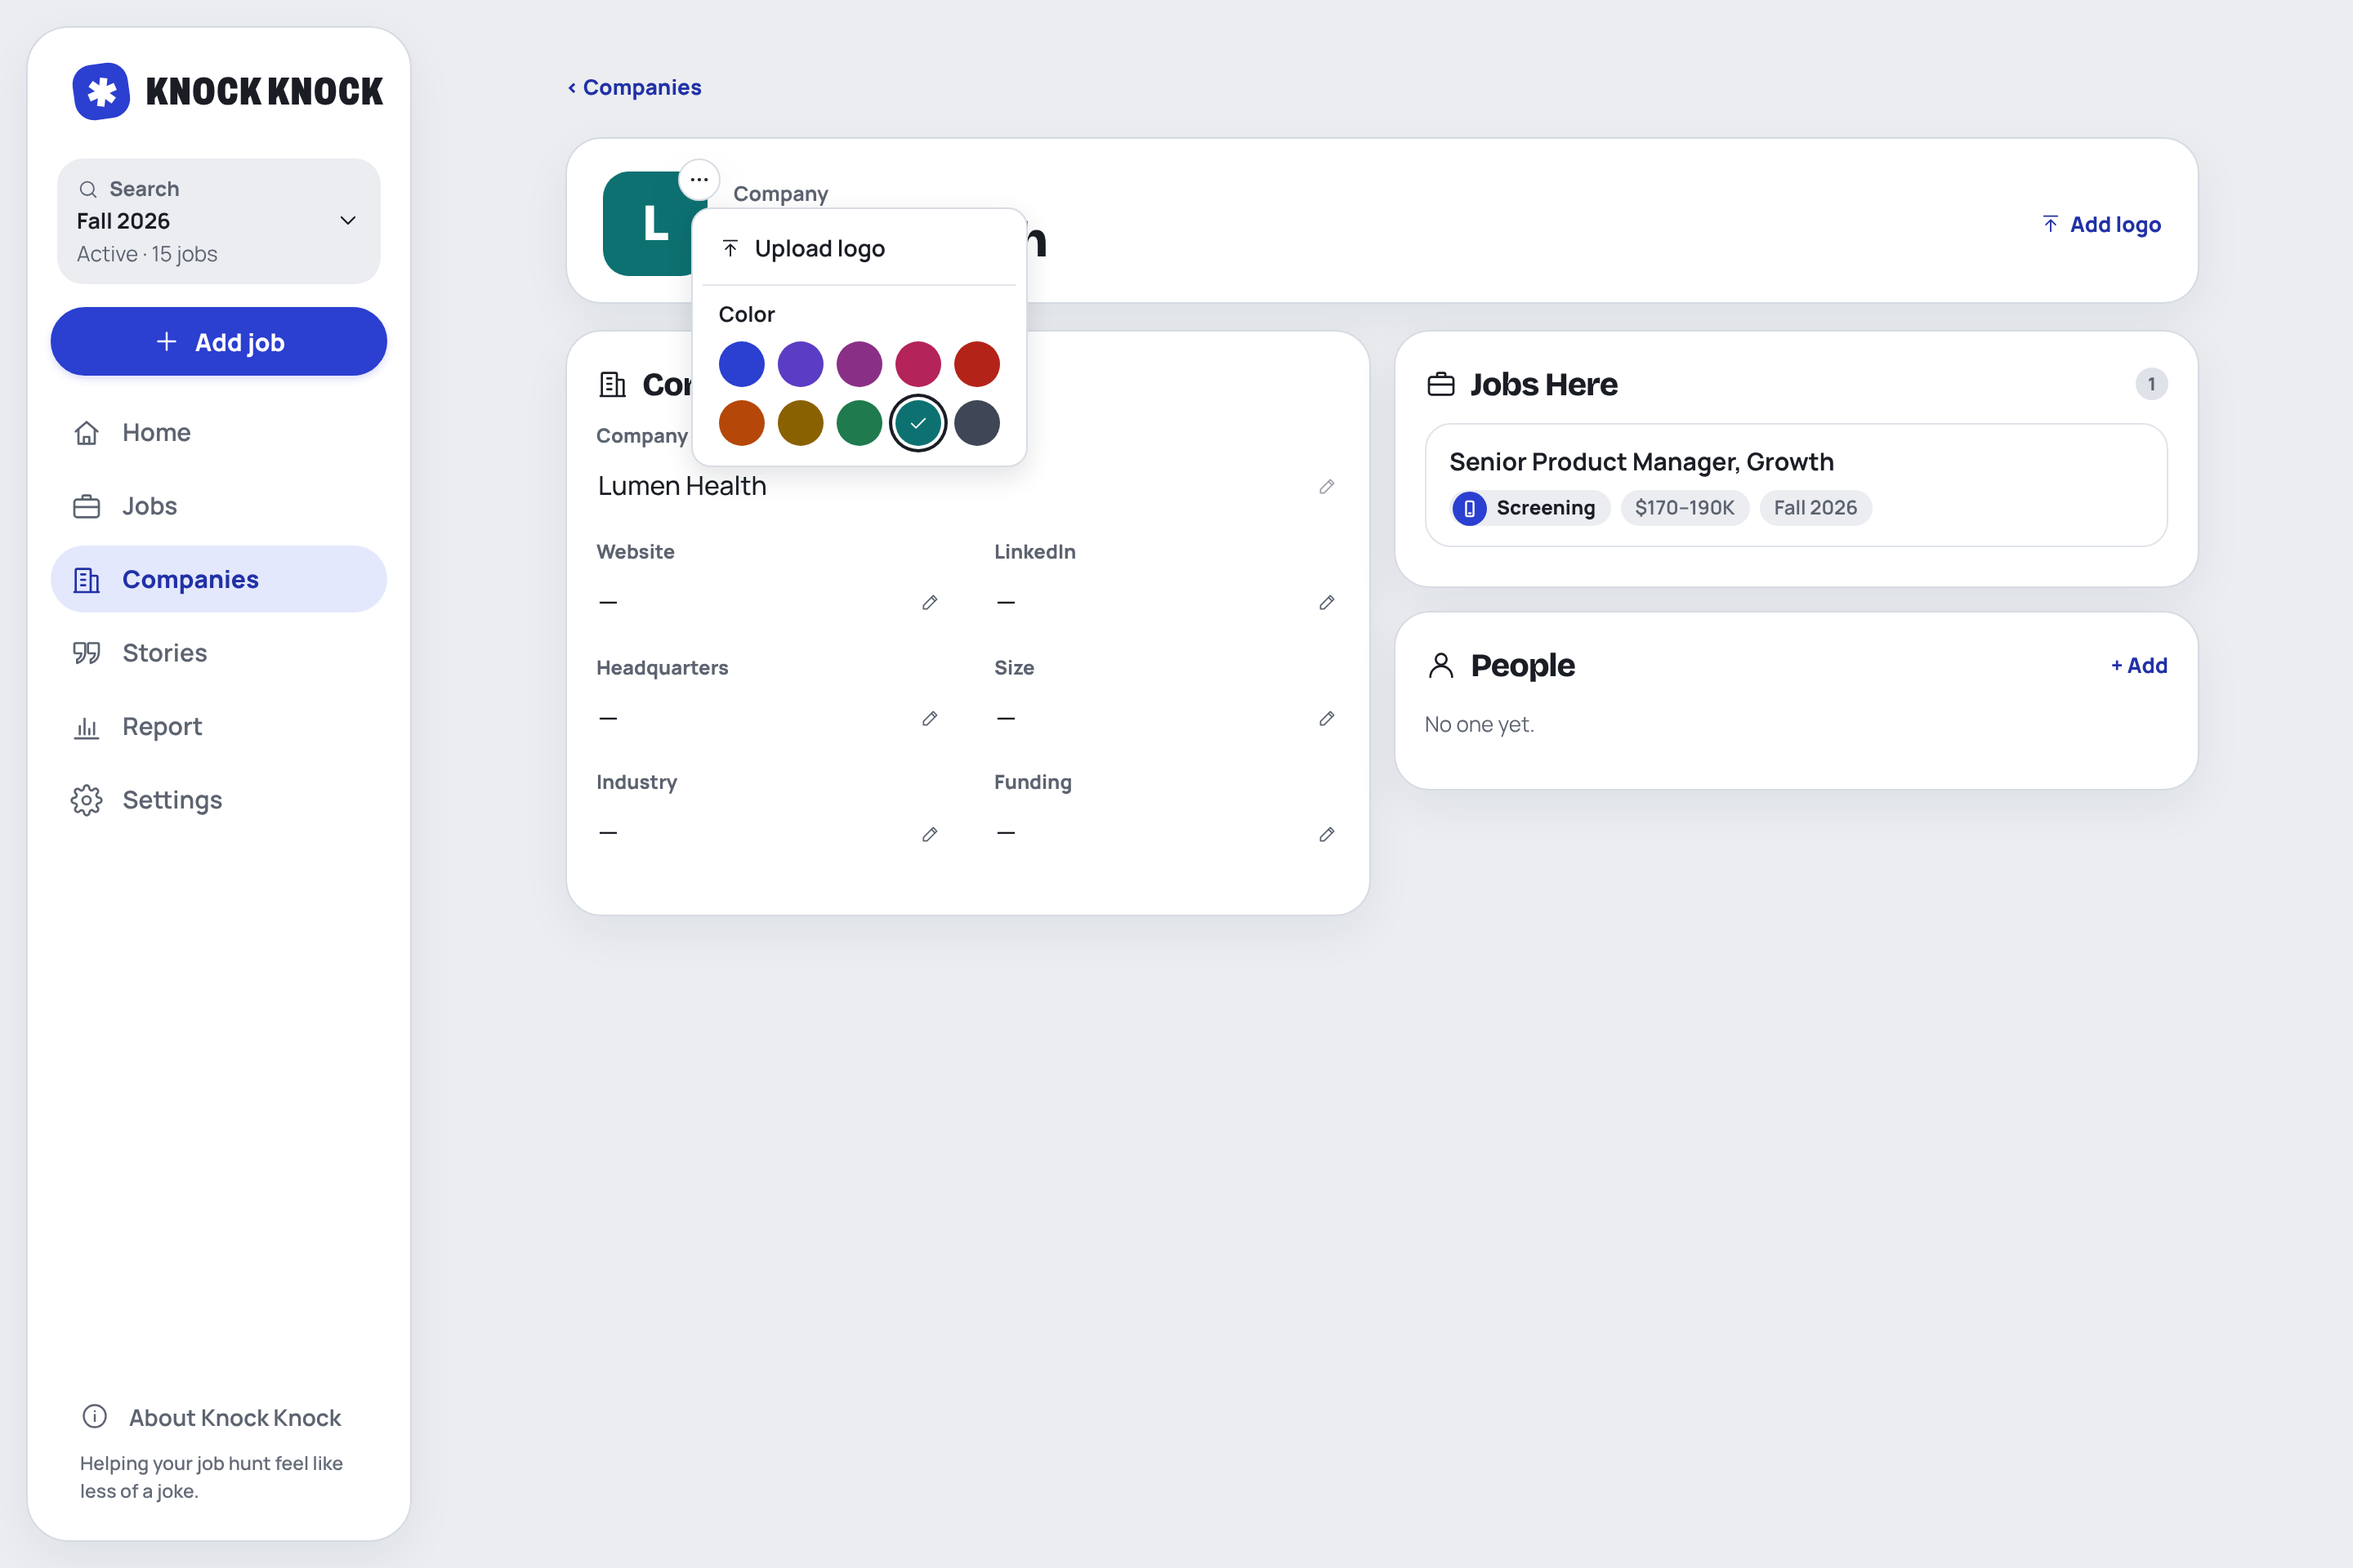
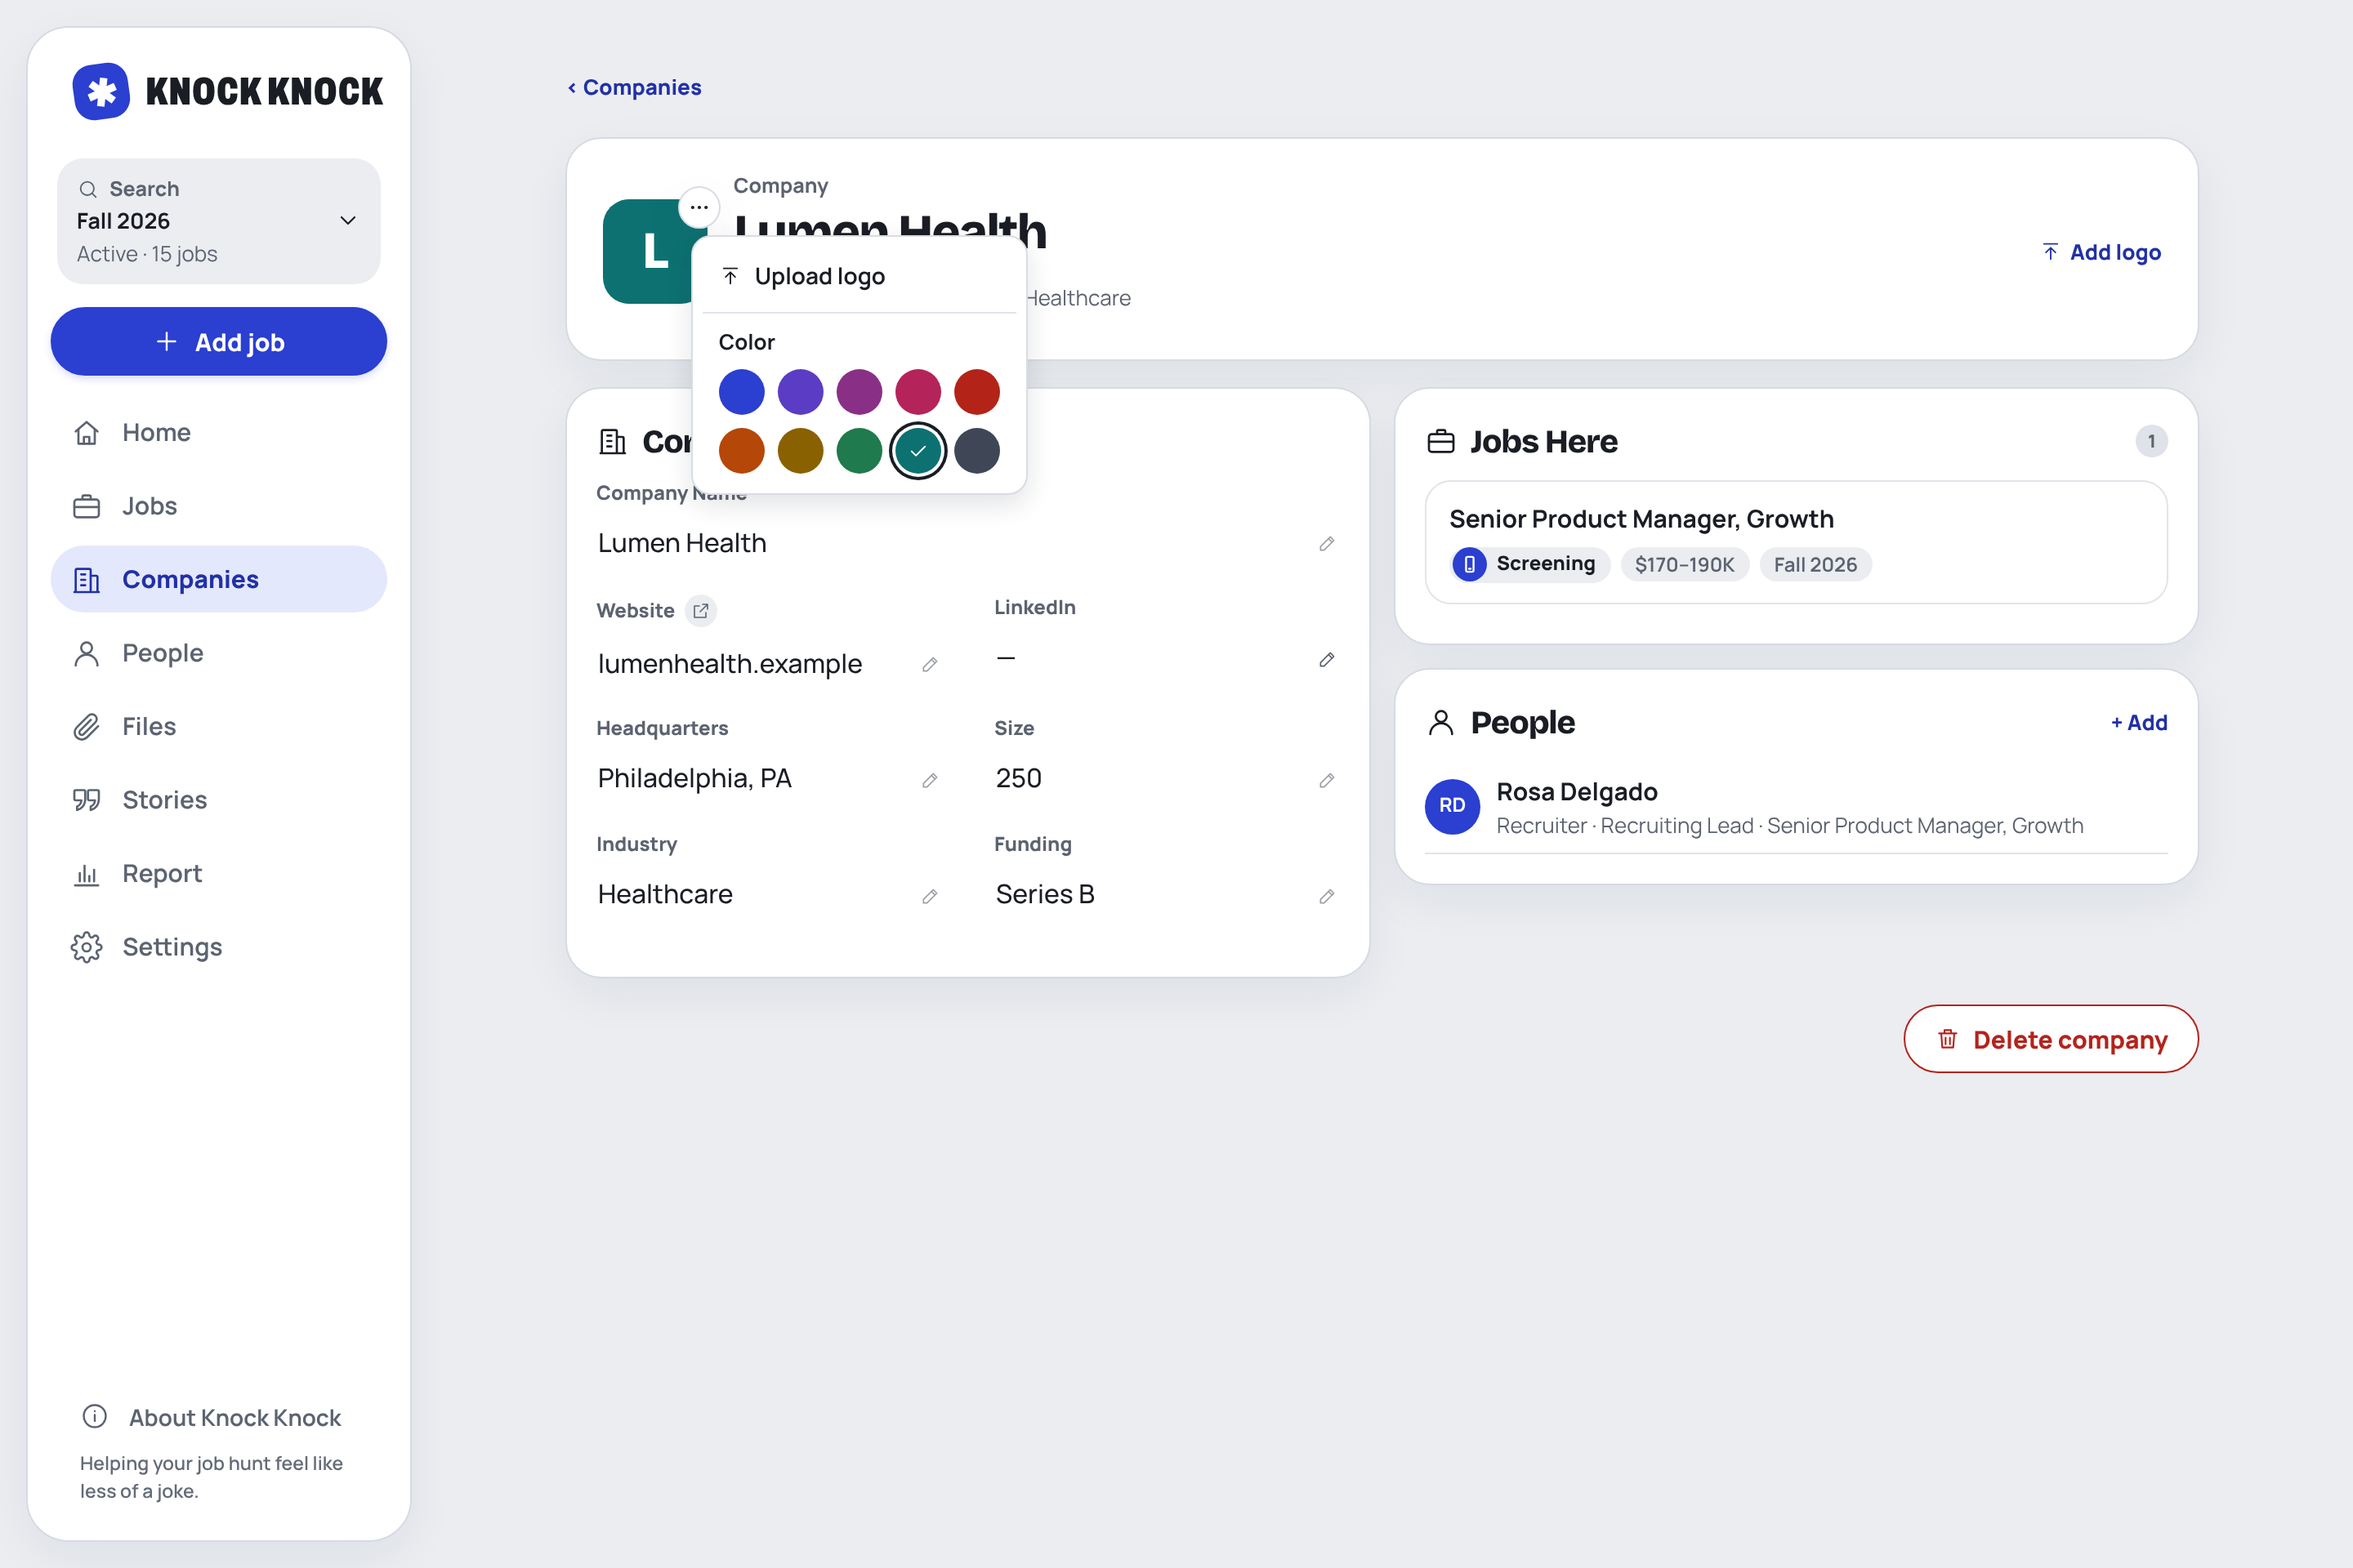
Knock Knock 1.1.3: README hero, assistant image and current screenshots
- hero.png: the Jobs board in a browser window beside a job's timeline on a phone,
  near the top of the README.
- ai-chat.png: an assistant using Knock Knock over MCP (logging the day's emails,
  moving a job to Screening, prepping a panel with matching stories; on a phone,
  what's on today and which jobs have gone quiet), in Connect an AI assistant.
- Every screenshot re-rendered from 1.1.2: People and Files in the sidebar and
  directory tabs, status comments on their own line, Delete company, other jobs
  at a company, and the report's resume comparison.
- people.png and a line on People and Files under Companies and people.

Claude-Session: https://claude.ai/code/session_01PCXyg1odGgu7ewnwgy9TLQ

diff --git a/README.md b/README.md
@@ -6,6 +6,8 @@ The app only stores and shows. Your assistant does the reading and the judging o
 
 [![Deploy to Cloudflare](docs/deploy-to-cloudflare.svg)](https://deploy.workers.cloudflare.com/?url=https://github.com/tyler-class/knockknock)
 
+![Knock Knock on a laptop and a phone: the Jobs board with each job's logo, pay and what needs doing, and a job's timeline with the panel interview coming up](docs/screenshots/hero.png)
+
 One deployment is one person's job search (or many, one after another: searches keep each stretch separate). It runs on your own Cloudflare account, and the free plan is plenty.
 
 ## What it does
@@ -26,7 +28,7 @@ A board with a lane per stage on a computer, a list with stage tabs on a phone. 
 
 A header with the title, company, work mode, location, applied date and pay, and a stage bar: Saved → Applied → Screening → Interviewing → Offer → Closed (Accepted, Rejected, Declined or Ghosted). Tap a stage to move the job there. Tabs for Details, Timeline, Stories and Files. Every detail (title, pay, links, requirements, notes, the pasted posting) edits in place where it's shown: tap it, type, and it saves when you press Enter or click away.
 
-![A job's Details tab: The Job card with every field editable in place, the Company card with the company's logo, and the people on the job](docs/screenshots/job.png)
+![A job's Details tab: The Job card with every field editable in place, the Company card with the company's logo and its other jobs, and the people on the job](docs/screenshots/job.png)
 
 ### The timeline
 
@@ -34,7 +36,7 @@ Every job has one: status changes, meetings (kind, time, join link, attendees, t
 
 **Status is history, not a field.** Every change is an event on the timeline, and the status is whatever the timeline says. Backfilling "they rejected me on the 3rd" lands in the right place, closed jobs remember the stage they closed from, and the report counts everything correctly. Changing a status can be undone from the toast.
 
-![A job's timeline: the stage bar, an upcoming panel interview with Open Call Mode and Join, then a status change, emails and a held meeting with its call notes underneath](docs/screenshots/timeline.png)
+![A job's timeline: the stage bar, an upcoming panel interview with Open Call Mode and Join, then a status change with its comment on its own line, emails and a held meeting with its call notes underneath](docs/screenshots/timeline.png)
 
 ### Companies and people
 
@@ -42,13 +44,17 @@ A company is its own record with its website, LinkedIn, headquarters, size, indu
 
 ![Companies: each company with its logo, or its monogram in the color picked for it](docs/screenshots/companies.png)
 
-A company's page holds its details, the jobs you have there across every search, and its people. Its logo shows here, on the jobs there and in every list.
+A company's page holds its details, the jobs you have there across every search, and its people. Its logo shows here, on the jobs there and in every list. A company can be deleted from its page; the popup says how many jobs and people go with it.
 
-![A company's page: its logo, details, the jobs there and the people who work there](docs/screenshots/company.png)
+![A company's page: its logo, details, the jobs there across searches and the people who work there](docs/screenshots/company.png)
 
 A company without a logo gets a monogram: the first letter of its name (skipping a leading "The" or "A") on an ultramarine tile. Pick another of ten colors from the ⋯ menu on its page, or upload a logo there. Your assistant can also find a company's logo on the web and attach it, and match the monogram to the brand's color.
 
 ![A company without a logo: its monogram, and the logo menu with Upload logo and ten colors to choose from](docs/screenshots/company-monogram.png)
+
+**People** and **Files** list everyone and every file across your companies and jobs, beside Companies under one set of tabs. Tap someone to edit them, take them off a job, or delete them.
+
+![People: everyone at your companies, with their role, title, the jobs they're on and their company](docs/screenshots/people.png)
 
 ### Stories
 
@@ -68,7 +74,7 @@ A full-screen view to keep beside the video call: who's in the room, the topics,
 
 Where every application went (a Sankey built from status history), how many heard back and how many reached interviews and offers, response rate by where you found the job and by which resume you sent, median time to hear back, and how many you applied to each week.
 
-![The report: applied, heard back, interviews and offers, a Sankey of where applications went, response rate by where you found the job, time to hear back, and applications per week](docs/screenshots/report.png)
+![The report: applied, heard back, interviews and offers, a Sankey of where applications went, response rate by where you found the job and by resume, time to hear back, and applications per week](docs/screenshots/report.png)
 
 ### Built for phones
 
@@ -78,7 +84,7 @@ Install it to your home screen and it works like an app, with notifications for 
 
 ### And
 
-- **Files.** Resumes, cover letters, transcripts and offer letters in your own private R2 bucket, with a SHA-256 of exactly what you sent. Adding one puts it on the timeline. Transcripts and other text files stay readable for your assistant.
+- **Files.** Resumes, cover letters, transcripts and offer letters in your own private R2 bucket, with a SHA-256 of exactly what you sent. Adding one puts it on the timeline, and the Files page lists every file across your jobs. Transcripts and other text files stay readable for your assistant.
 - **Searches.** Each stretch of job hunting is its own search. Pick it from the menu at the top of the sidebar; everything but Stories and Companies follows it.
 - **Yours.** It runs on your own Cloudflare account, and your data stays in your own database and storage.
 
@@ -210,6 +216,8 @@ Once a day your copy tells Knock Knock's developer that it exists: a random id i
 ## Connect an AI assistant
 
 Knock Knock includes an [MCP](https://modelcontextprotocol.io) server at `https://<your-knock-knock>/mcp`. Open **Settings → Connect an AI assistant** to copy your URL and see steps for Claude, ChatGPT, Claude Code and others. When an assistant connects, Knock Knock shows a sign-in page; enter your password to approve it. **Settings → Connect an AI assistant** also lists what's connected and can sign them all out.
+
+![An AI assistant connected to Knock Knock: on a laptop it logs the day's emails, moves Lumen Health to Screening and adds a technical interview, then preps a Tessellate panel with the people in the room and two matching STAR stories; on a phone it says what's on today and which applications have gone quiet](docs/screenshots/ai-chat.png)
 
 ### How the agent flows work
 
